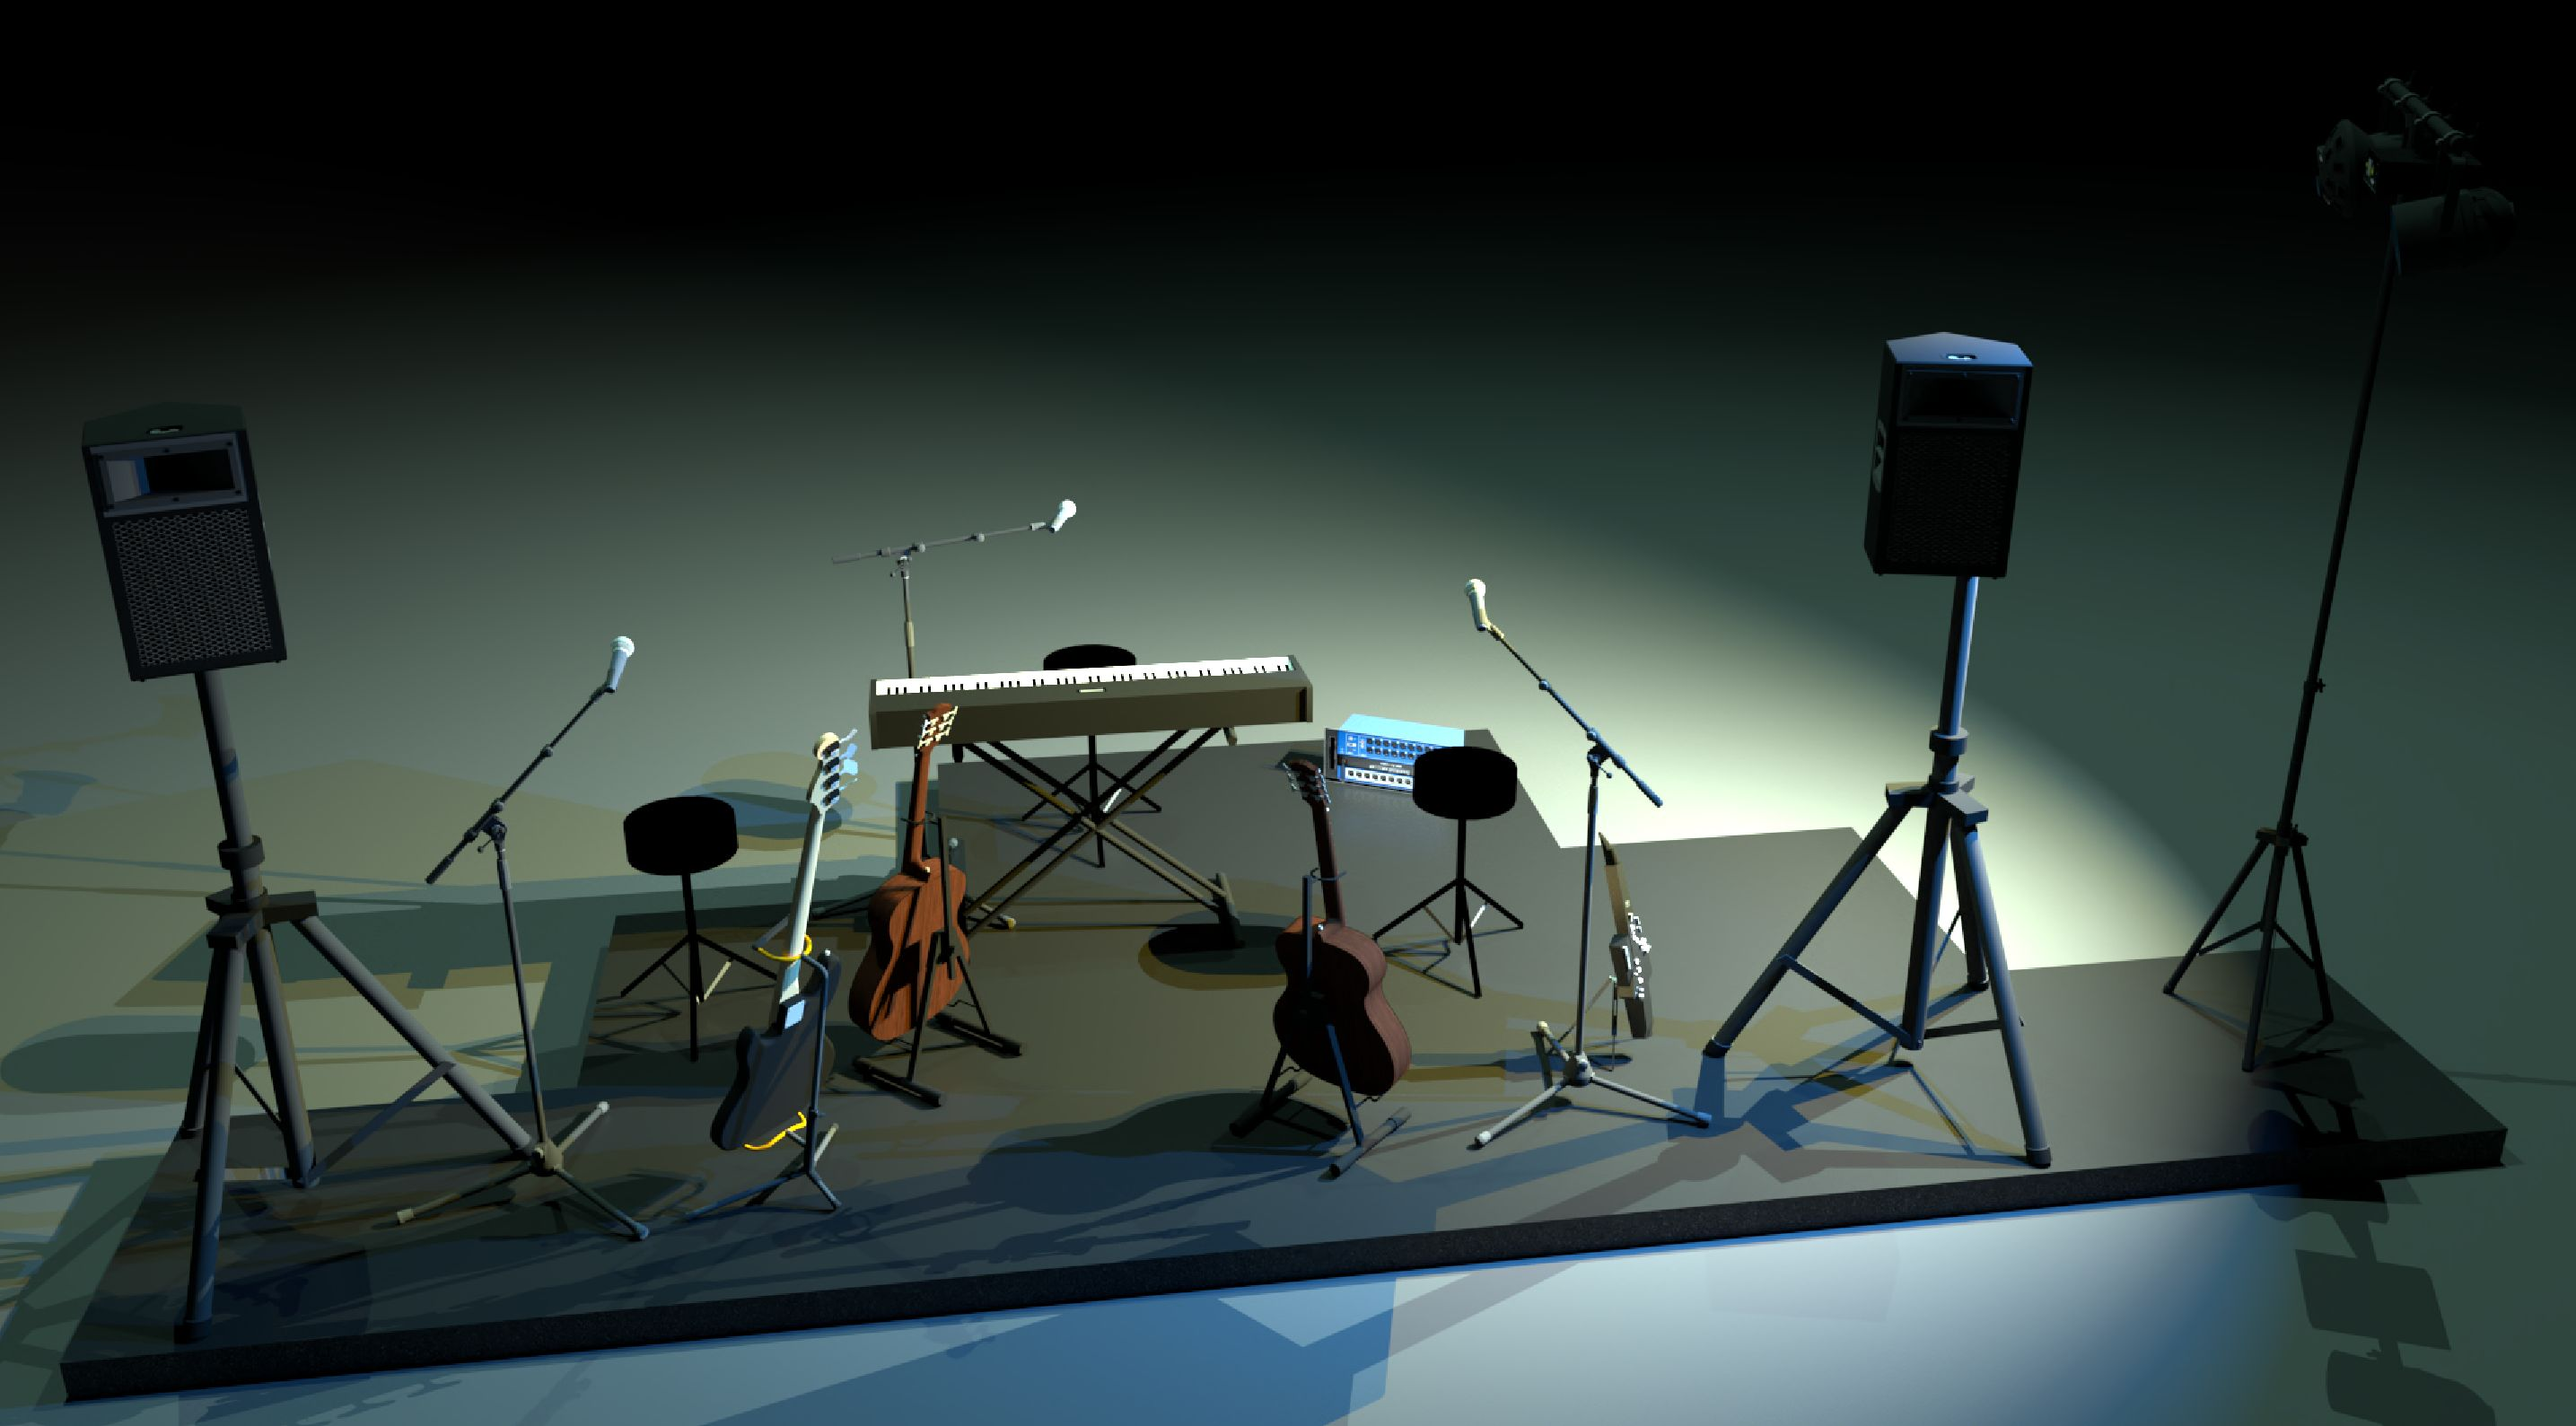
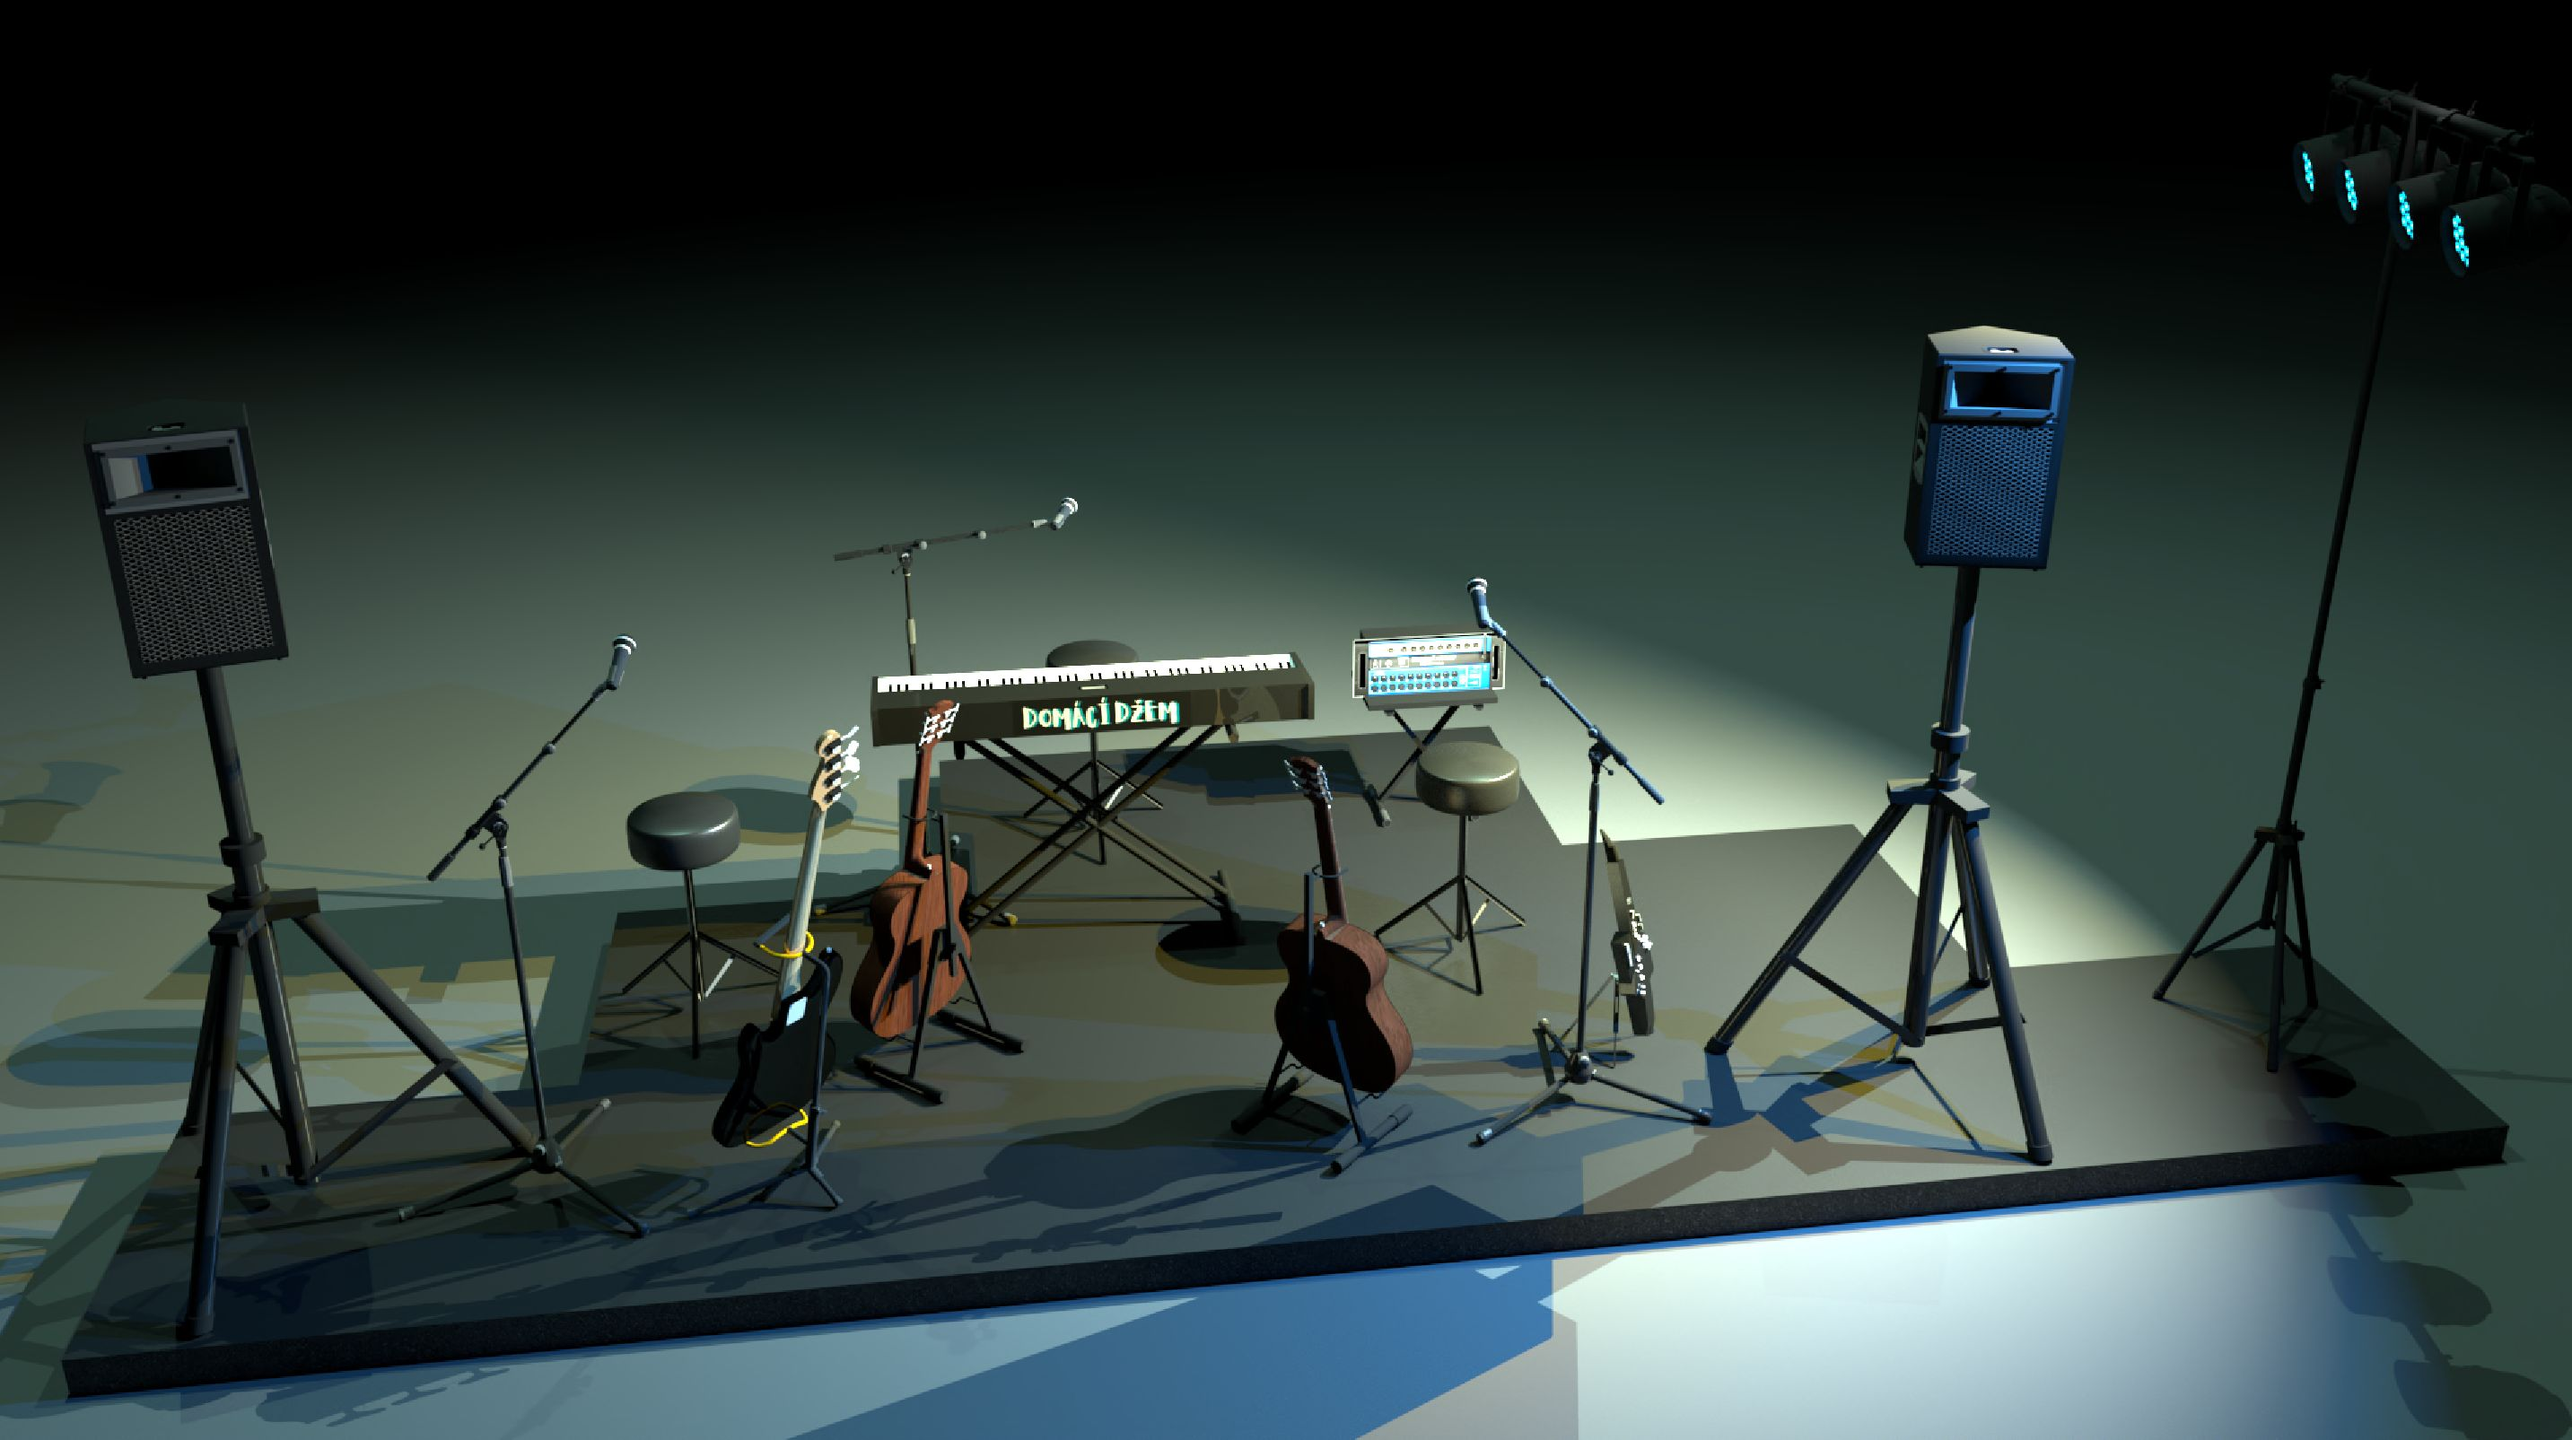
new stage layout image

diff --git a/public/english/stageplan/index.html b/public/english/stageplan/index.html
@@ -6,7 +6,7 @@
     
     <title>Stage plan | DOMÁCÍ DŽEM</title>
     <meta name="viewport" content="width=device-width,minimum-scale=1">
-    <meta name="description" content="Positioning of players and their instruments on stage for electrical network setup">
+    <meta name="description" content="Placement of instruments and sound equipment on stage for electrical network setup">
     <meta name="generator" content="Hugo 0.129.0">
     
     
@@ -39,16 +39,16 @@
     <meta property="og:url" content="http://domacidzem.cz/english/stageplan/">
   <meta property="og:site_name" content="DOMÁCÍ DŽEM">
   <meta property="og:title" content="Stage plan">
-  <meta property="og:description" content="Positioning of players and their instruments on stage for electrical network setup">
+  <meta property="og:description" content="Placement of instruments and sound equipment on stage for electrical network setup">
   <meta property="og:locale" content="en_US">
   <meta property="og:type" content="article">
 
   <meta itemprop="name" content="Stage plan">
-  <meta itemprop="description" content="Positioning of players and their instruments on stage for electrical network setup">
-  <meta itemprop="wordCount" content="20">
+  <meta itemprop="description" content="Placement of instruments and sound equipment on stage for electrical network setup">
+  <meta itemprop="wordCount" content="22">
   <meta name="twitter:card" content="summary">
   <meta name="twitter:title" content="Stage plan">
-  <meta name="twitter:description" content="Positioning of players and their instruments on stage for electrical network setup">
+  <meta name="twitter:description" content="Placement of instruments and sound equipment on stage for electrical network setup">
 
 	
   </head>
@@ -164,7 +164,7 @@
       </header>
       <div class="nested-copy-line-height lh-copy f4 nested-links mid-gray">
         <figure><img src="/images/stageview.jpg"><figcaption>
-        <h4>Stage layout showing the placement of all instruments</h4>
+        <h4>Stage layout showing the placement of instruments and sound equipment</h4>
       </figcaption>
   </figure>
 

diff --git a/public/english/index.html b/public/english/index.html
@@ -167,7 +167,7 @@
     <main class="pb7" role="main">
       
   <article class="cf ph3 ph5-l pv3 pv4-l f4 tc-l center measure-wide lh-copy mid-gray">
-      <p>The band &ldquo;Domácí Džem&rdquo; was born a few years ago from home jam sessions with our family and friends. The band&rsquo;s sound is colorful and rich, filling smaller venues with delightful tones — places like music bars, cafés, garden parties or even museums.</p>
+      <p>The band Domácí Džem was born a few years ago from home jam sessions with our family and friends. The band&rsquo;s sound is colorful and rich, filling smaller venues with delightful tones — places like music bars, cafés, garden parties or even museums.</p>
 <p>Our recipe: </p>
 <p>We take the finest international songs, add a little sugar, simmer, and pour them into decorative jars. The songs in the jars come in various flavors—rock, soul, or pop. Our recipe is purely homemade, with no added coloring or preservatives, so our music can&rsquo;t be stored for long—it’s meant to be enjoyed immediately upon opening! </p>
 

diff --git a/public/stageplan/index.html b/public/stageplan/index.html
@@ -164,7 +164,7 @@
       </header>
       <div class="nested-copy-line-height lh-copy f4 nested-links mid-gray">
         <figure><img src="/images/stageview.jpg"><figcaption>
-        <h4>Rozložení nástrojů a ostatní techniky na pódiu</h4>
+        <h4>Rozložení nástrojů a zvukové techniky na pódiu</h4>
       </figcaption>
   </figure>
 

diff --git a/content/en/stageplan.md b/content/en/stageplan.md
@@ -4,7 +4,7 @@ title: Stage plan
 cascade:
   featured_image: '/images/kdo-jsme.jpg'
 omit_header_text: true
-description: Positioning of players and their instruments on stage for electrical network setup
+description: Placement of instruments and sound equipment on stage for electrical network setup
 type: page
 menu: main
 
@@ -12,7 +12,7 @@ menu: main
 
 
 
-  {{< figure src="/images/stageview.jpg" title="Stage layout showing the placement of all instruments" >}} 
+  {{< figure src="/images/stageview.jpg" title="Stage layout showing the placement of instruments and sound equipment" >}} 
 
   {{< figure src="/images/stageplan.jpg" title="Stage plan for electrical network setup" >}} 
 

diff --git a/content/en/_index.md b/content/en/_index.md
@@ -6,7 +6,7 @@ cascade:
 theme_version: '2.8.2'
 ---
 
-The band "Domácí Džem" was born a few years ago from home jam sessions with our family and friends. The band's sound is colorful and rich, filling smaller venues with delightful tones — places like music bars, cafés, garden parties or even museums.
+The band Domácí Džem was born a few years ago from home jam sessions with our family and friends. The band's sound is colorful and rich, filling smaller venues with delightful tones — places like music bars, cafés, garden parties or even museums.
 
 Our recipe:  
 

diff --git a/content/cz/stageplan.md b/content/cz/stageplan.md
@@ -12,7 +12,7 @@ menu: main
 
 
 
-  {{< figure src="/images/stageview.jpg" title="Rozložení nástrojů a ostatní techniky na pódiu" >}} 
+  {{< figure src="/images/stageview.jpg" title="Rozložení nástrojů a zvukové techniky na pódiu" >}} 
 
   {{< figure src="/images/stageplan.jpg" title="Plán pódia pro zapojení do elektrické sítě" >}} 
 
